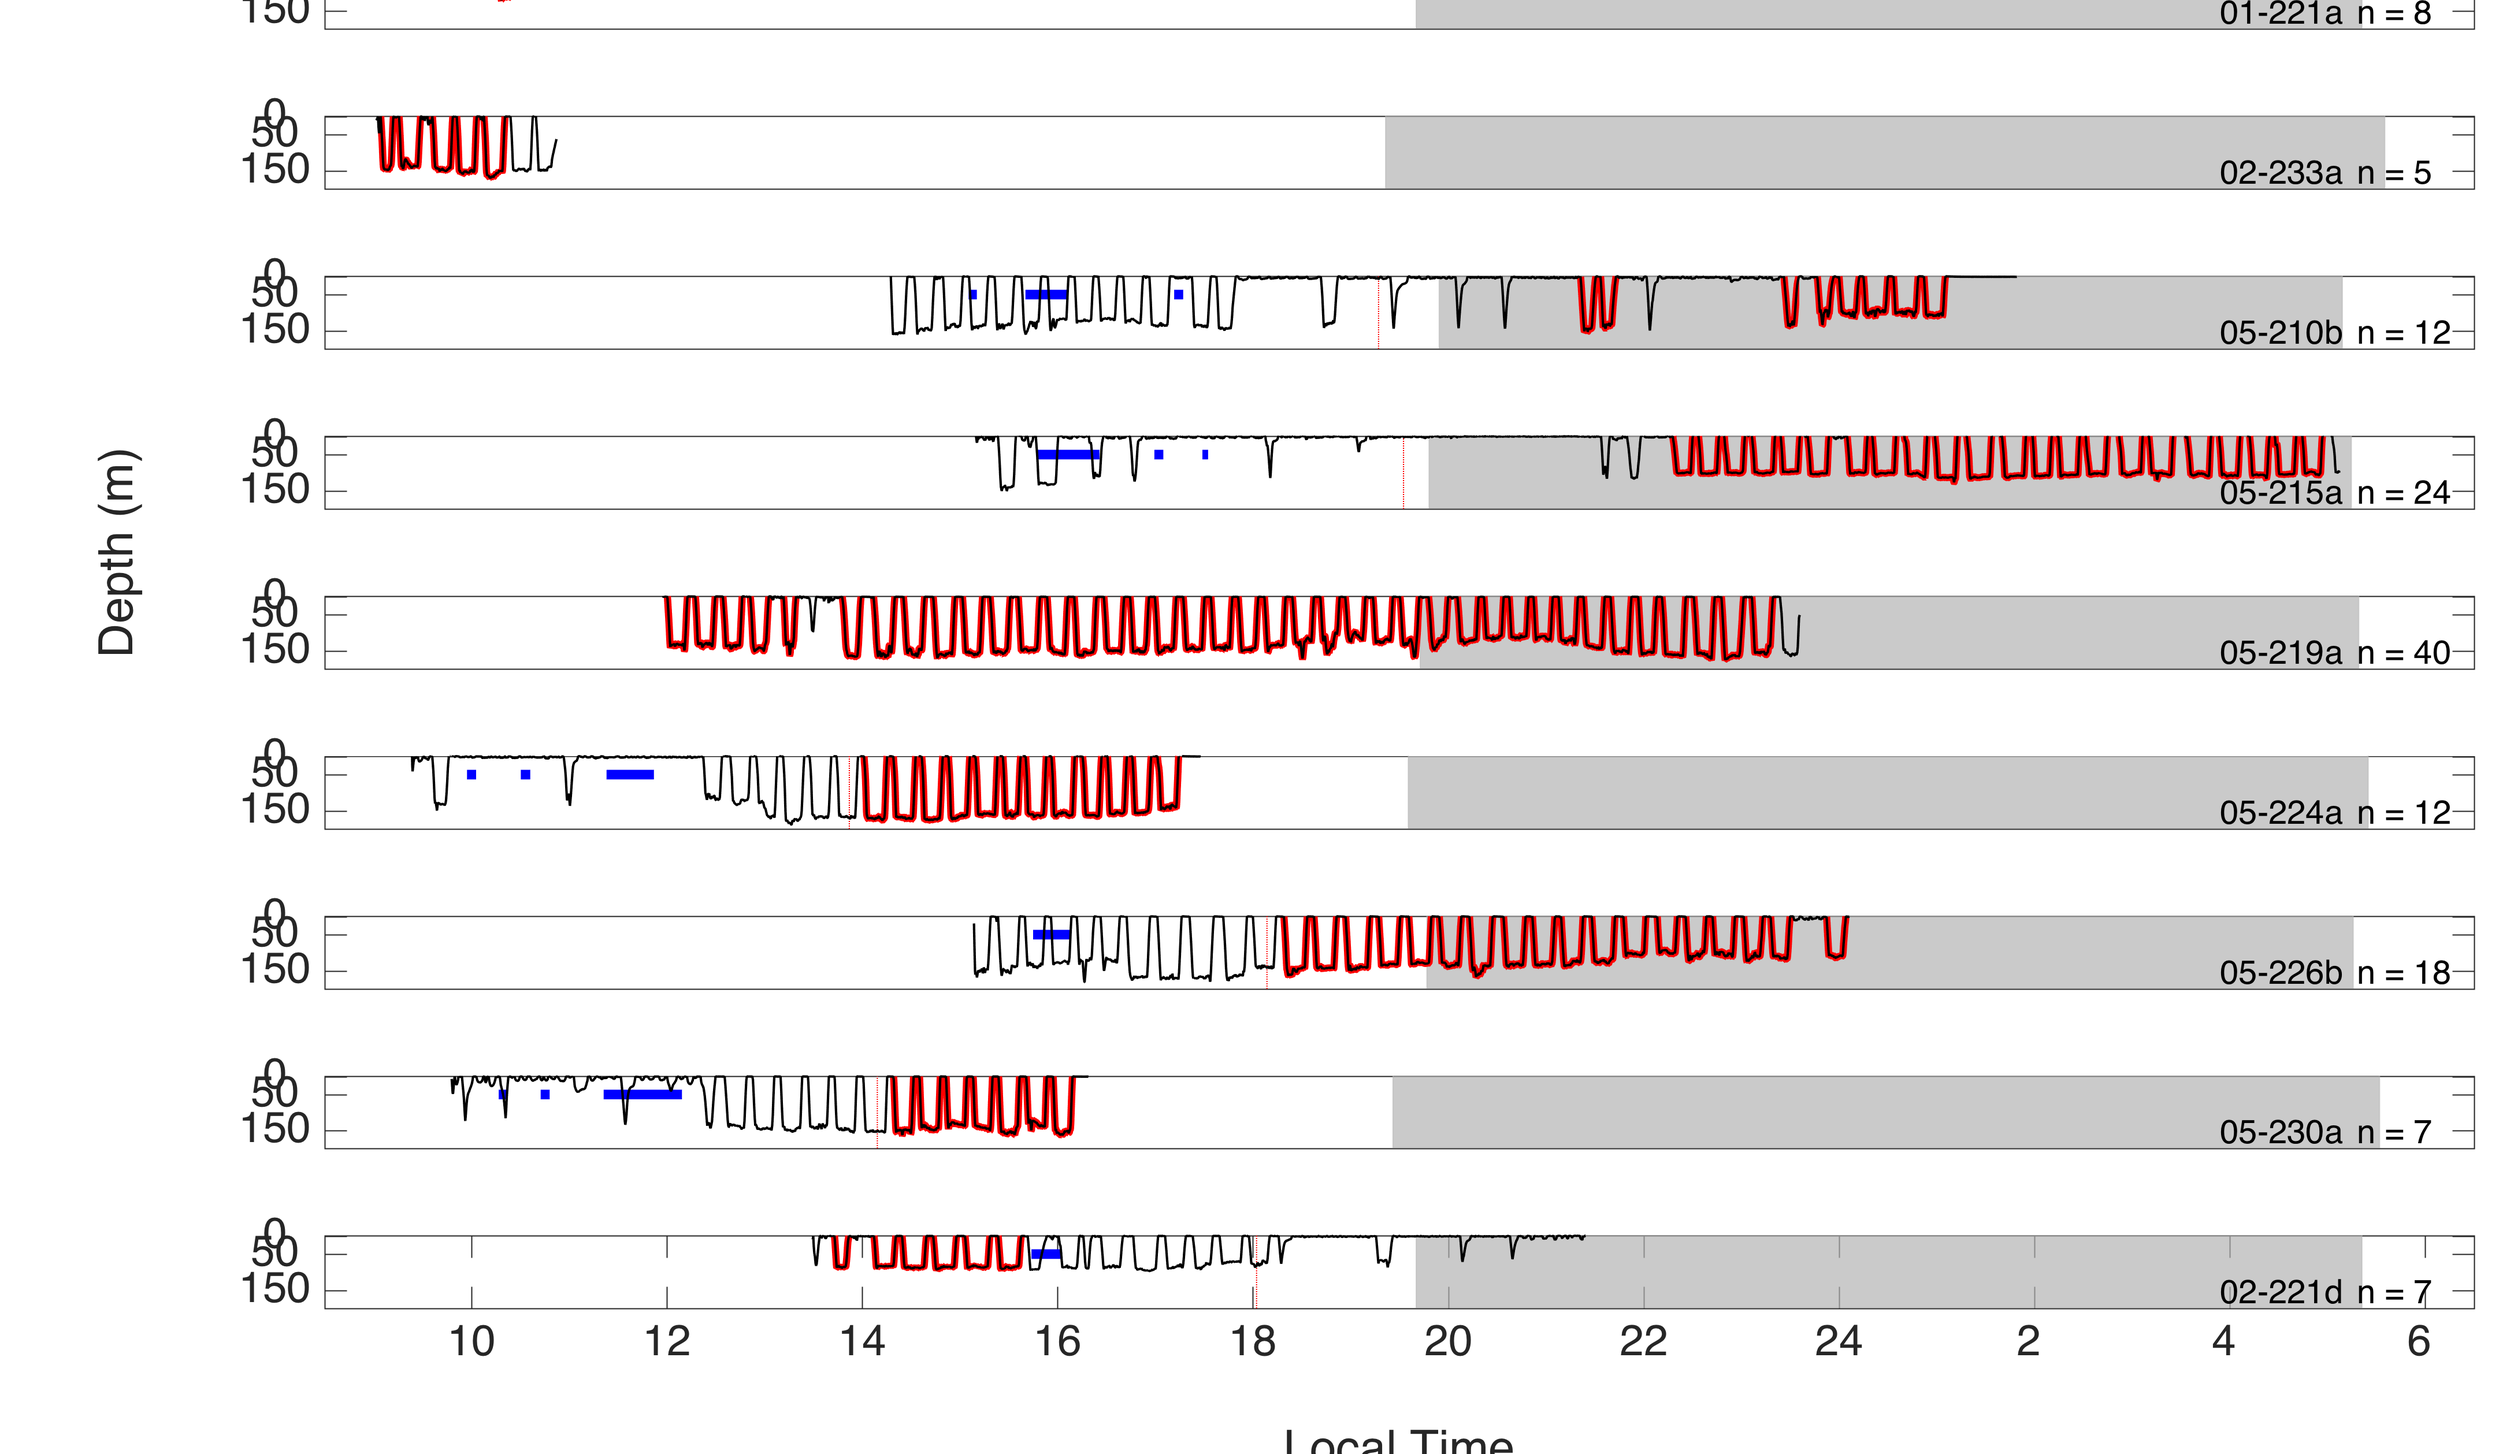
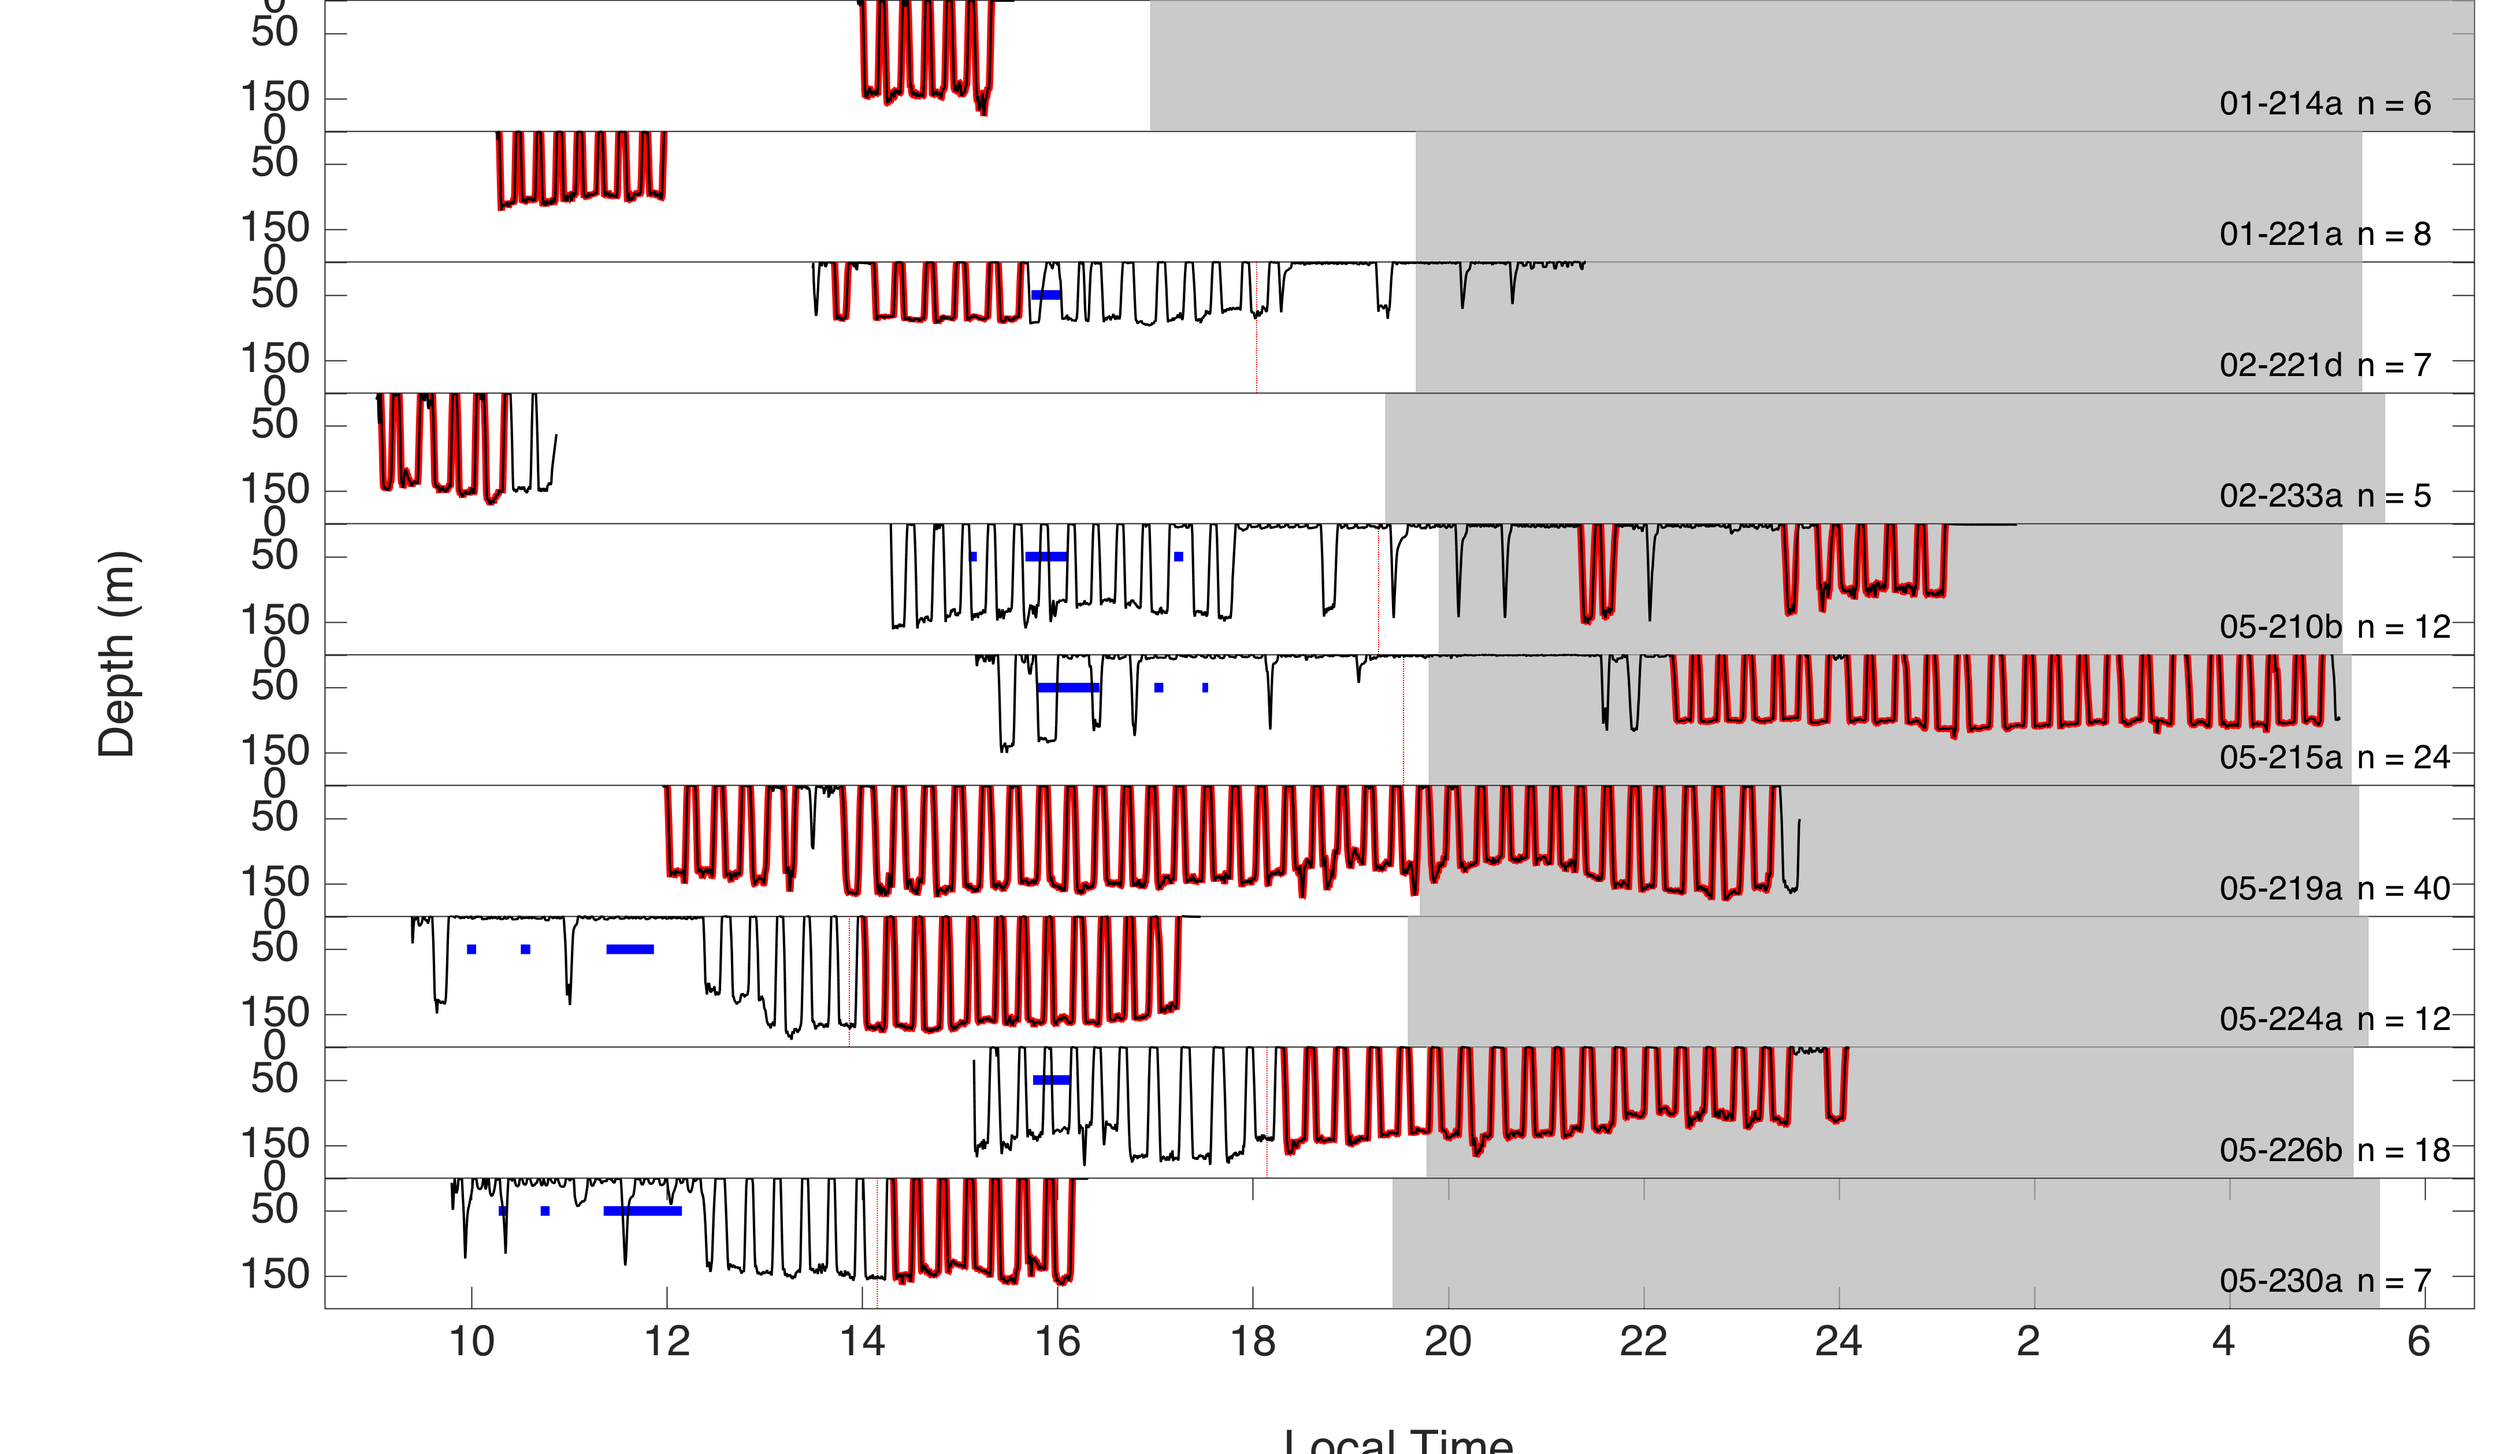
Update paper 10 animals - stats

diff --git a/NARW_totalVolume.m b/NARW_totalVolume.m
@@ -25,6 +25,7 @@ allbtmdur = []; % all bottom duration
 allbtmspeed = [];
 sdbtmspeed = []; 
 alltort = []; 
+mnboutdur = []; % mean bout duration for dives
 NF = []; % non-foraging dives
 for i = 1:size(tags,1)
     tag = tags{i,1};
@@ -65,6 +66,7 @@ for i = 1:size(tags,1)
             allbtmdur(end+1) = dive(j).btm(end)-dive(j).btm(1); 
             allbtmspeed(end+1) = mean(dive(j).flowEst(dive(j).btm)); % mean bottom speed
             sdbtmspeed(end+1) = std(dive(j).flowEst(dive(j).btm)); % sd
+            mnboutdur(end+1) = mean([dive(j).clearingtime]);
         else
             allprop(end+1,1:2) = NaN; % proportion of time spent foraging
             allstart(end+1) = NaN;
@@ -72,6 +74,7 @@ for i = 1:size(tags,1)
             allbtmdur(end+1) = NaN; 
             allbtmspeed(end+1) = NaN; % mean bottom speed
             sdbtmspeed(end+1) = NaN; % sd
+            mnboutdur(end+1) = NaN; 
         end
         if isfield(dive,'tort') == 1
             if isempty(dive(j).tort) == 0
@@ -101,16 +104,20 @@ adjustfigurefont
 set(gcf,'position',[13     5   512   668],'paperpositionmode','auto')
 print('volfiltered_each.png','-dpng','-r300')
 
+allvols(isnan(allvols)) = 0; 
 
 [mean(allvperdive(allvperdive>0)) std(allvperdive(allvperdive>0))] % volumes per dive
-[mean(allvols) std(allvols)]
-[mean(allbouts) std(allbouts)]
-[mean(allspeeds) std(allspeeds)]
+[mean(allvols) std(allvols)] % volume per bout
+[mean(allbouts) std(allbouts)] % bout duration
+[mean(allspeeds) std(allspeeds)] % speed during bout
+
+[min(allbperdive) max(allbperdive) mean(allbperdive) std(allbperdive)] % bouts per dive
 
 [mean(alldepth(allvperdive > 1)) std(alldepth(allvperdive > 1))]
 [mean(alldepth(allvperdive < 1)) std(alldepth(allvperdive < 1))]
 
 %% 
+gapes = []; 
 for i = 1:length(tagid2)
 [gape, lnth] = getgape(tags{tagid2(i),6});
 gapes(:,i) = gape;
@@ -133,7 +140,7 @@ grid on
 h = colorbar; 
 ylabel(h,'Volume filtered (m^3)')
 adjustfigurefont('Helvetica',14)
-view([-39.2000   13.2000])
+view([-55.6000   23.6000])
 
 print('NARW_3dFiltVol.png','-dpng','-r300')
 
@@ -158,6 +165,7 @@ for i = 1:length(alldepth)
 h = scatter(alldepth(i),allprop(i,2)-allprop(i,1),50,gapes(i),'filled','markeredgecolor','k'); 
 end
 xlabel('Depth (m)'), ylabel('Proportion of dive')
+xlim([80 185])
 axletter(gca,'C')
 adjustfigurefont('Helvetica',14)
 print('NARW_DiveProportion.png','-dpng','-r300')
@@ -169,11 +177,12 @@ lm2 = fitlm(alldepth,allprop(:,2)) % all depth versus bottom proportion end
 lm3 = fitlm(alldepth,allprop(:,2)-allprop(:,1)) % all depth versus bottom proportion end
 
 % get effect sizes with: h = plotEffects(lm1)
+% do predictions with [ypred,yci] = predict(lm1,82)
 %% 
 X = [allbtmspeed' gapes' alldur.*(allprop(:,2)-allprop(:,1))];
 lm_vol = fitlm(X,allvperdive)
 figure
-plotEffects(lm_vol) 
+h = plotEffects(lm_vol) 
 %% proportional depth figure
 % figure(111), clf, hold on 
 % col = viridis(17); % ages 2 to 18
@@ -207,7 +216,7 @@ end
 round([min(dep_filtrate) max(dep_filtrate)])
 for i = 1:length(allspeeds)
     gape = getgape(tags{tagid(i),6});
-    all_hr_rate(:,i) = allspeeds(i)*gape*3600; % filtration rate of all (m3/h)
+    all_hr_rate(:,i) = allspeeds(i)*gape*3600; % filtration rate of all (m3/h) at the bottom of dives
     gapes(:,i) = gape;
 end
 round([mean(all_hr_rate) std(all_hr_rate)])/3600 % in m/s
@@ -233,13 +242,13 @@ end
 
 %% some tortuosity 
 figure
-plot(alltort(allvperdive > 1,1),mnboutdur(~isnan(mnboutdur)),'o')
+plot(alltort(allvperdive > 1,1),mnboutdur(allvperdive > 1),'o')
 xlabel('Tortuosity'),ylabel('Mean bout duration (sec)')
-lmtort2 = fitlm(alltort(allvperdive > 1,1),mnboutdur(~isnan(mnboutdur)))
+lmtort2 = fitlm(alltort(allvperdive > 1,1),mnboutdur(allvperdive > 1))
 figure
 plot(alltort(allvperdive > 1,1),allvperdive(allvperdive > 1),'o')
 xlabel('Tortuosity'),ylabel('Total volume filtered (m^3)')
-lmtort1 = fitlm(alltort(:,1),allvperdive); 
+lmtort1 = fitlm(alltort(allvperdive > 1,1),allvperdive(allvperdive > 1)); 
 %% bouts per dive statistics
 % % set nans first
 % cv_bouts_bydive = nan(10,39);

diff --git a/NARW_plotAlldives.m b/NARW_plotAlldives.m
@@ -25,7 +25,7 @@ for i = 1:size(tags,1)
     
     % plot by time of day
     figure(100),set(gcf,'position',[323 145 1038 604],'paperpositionmode','auto')
-    subplot('position',[0.13 1.2-(tags{i,3}*0.11) 0.86 0.05]), hold on, box on
+    subplot('position',[0.13 1.0-(tags{i,3}*0.09) 0.86 0.09]), hold on, box on
     UTC = tags{i,2}(4:end);
     % add sunrise and sunset
     [sun_rise,sun_set] = sunRiseSet(44.55,-66.4,-4,datestr(datenum(tags{i,2}(1:3))));
@@ -33,7 +33,7 @@ for i = 1:size(tags,1)
     ss = str2num(sun_set(1:2))+str2num(sun_set(4:5))/60+str2num(sun_set(7:8))/3600;
     h1 = patch([ss 24+sr 24+sr ss ss],[8 8 -198 -198 0],[0.7 0.7 0.7]);
     h1.EdgeColor = [0.7 0.7 0.7]; h1.FaceAlpha = 0.7; h1.EdgeAlpha = 0.5;
-    
+
     % plot([0 30],[-50 -50],':','color',[0.8 0.8 0.8])
     
     % add playback info
